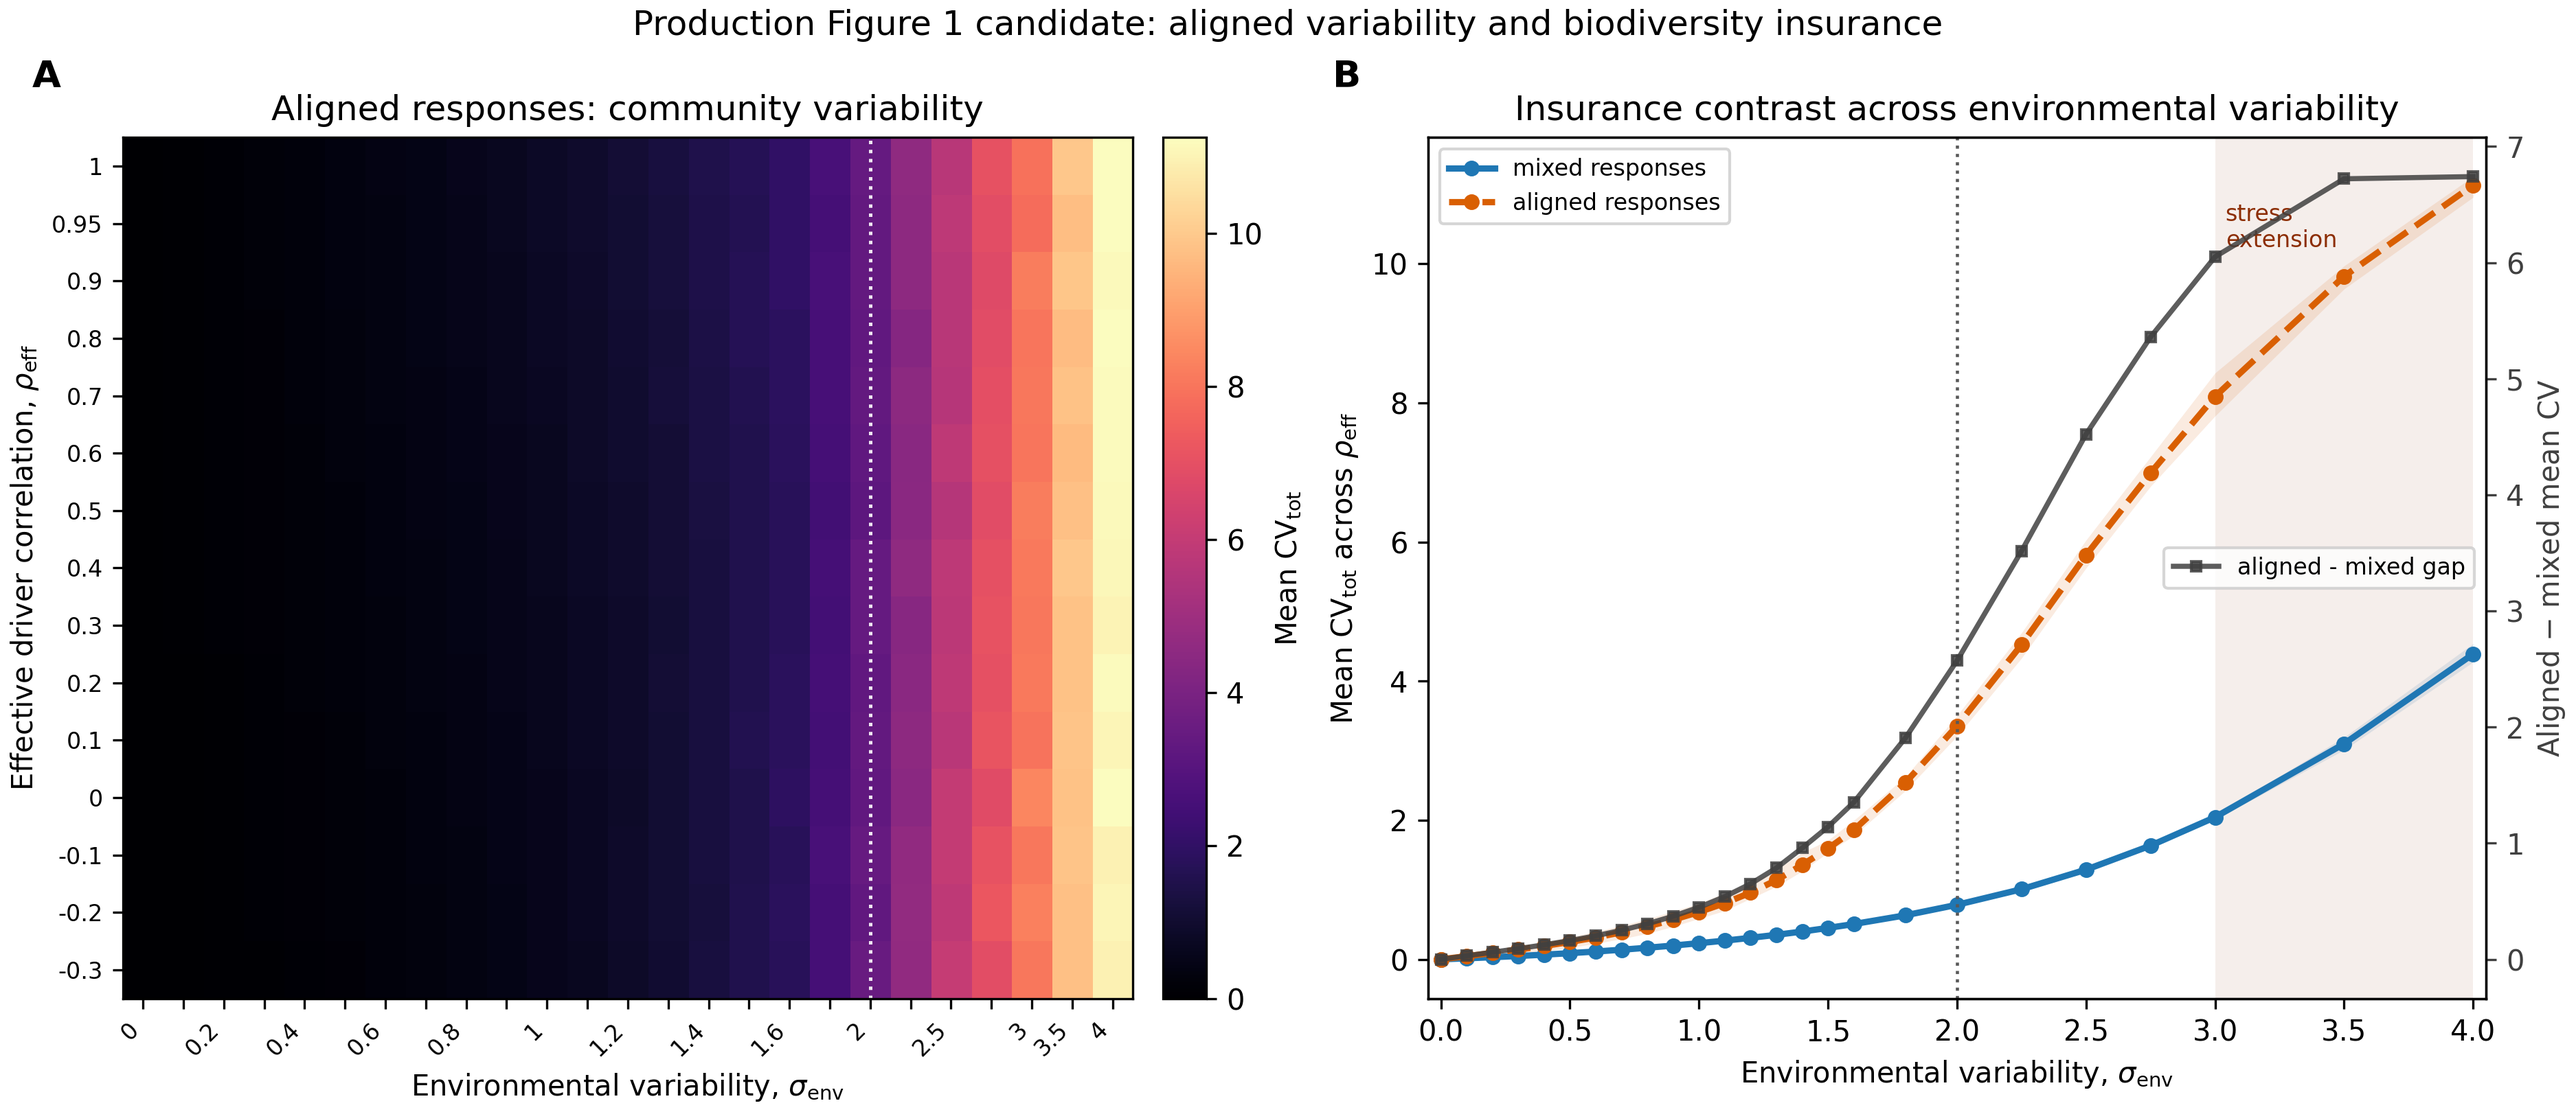
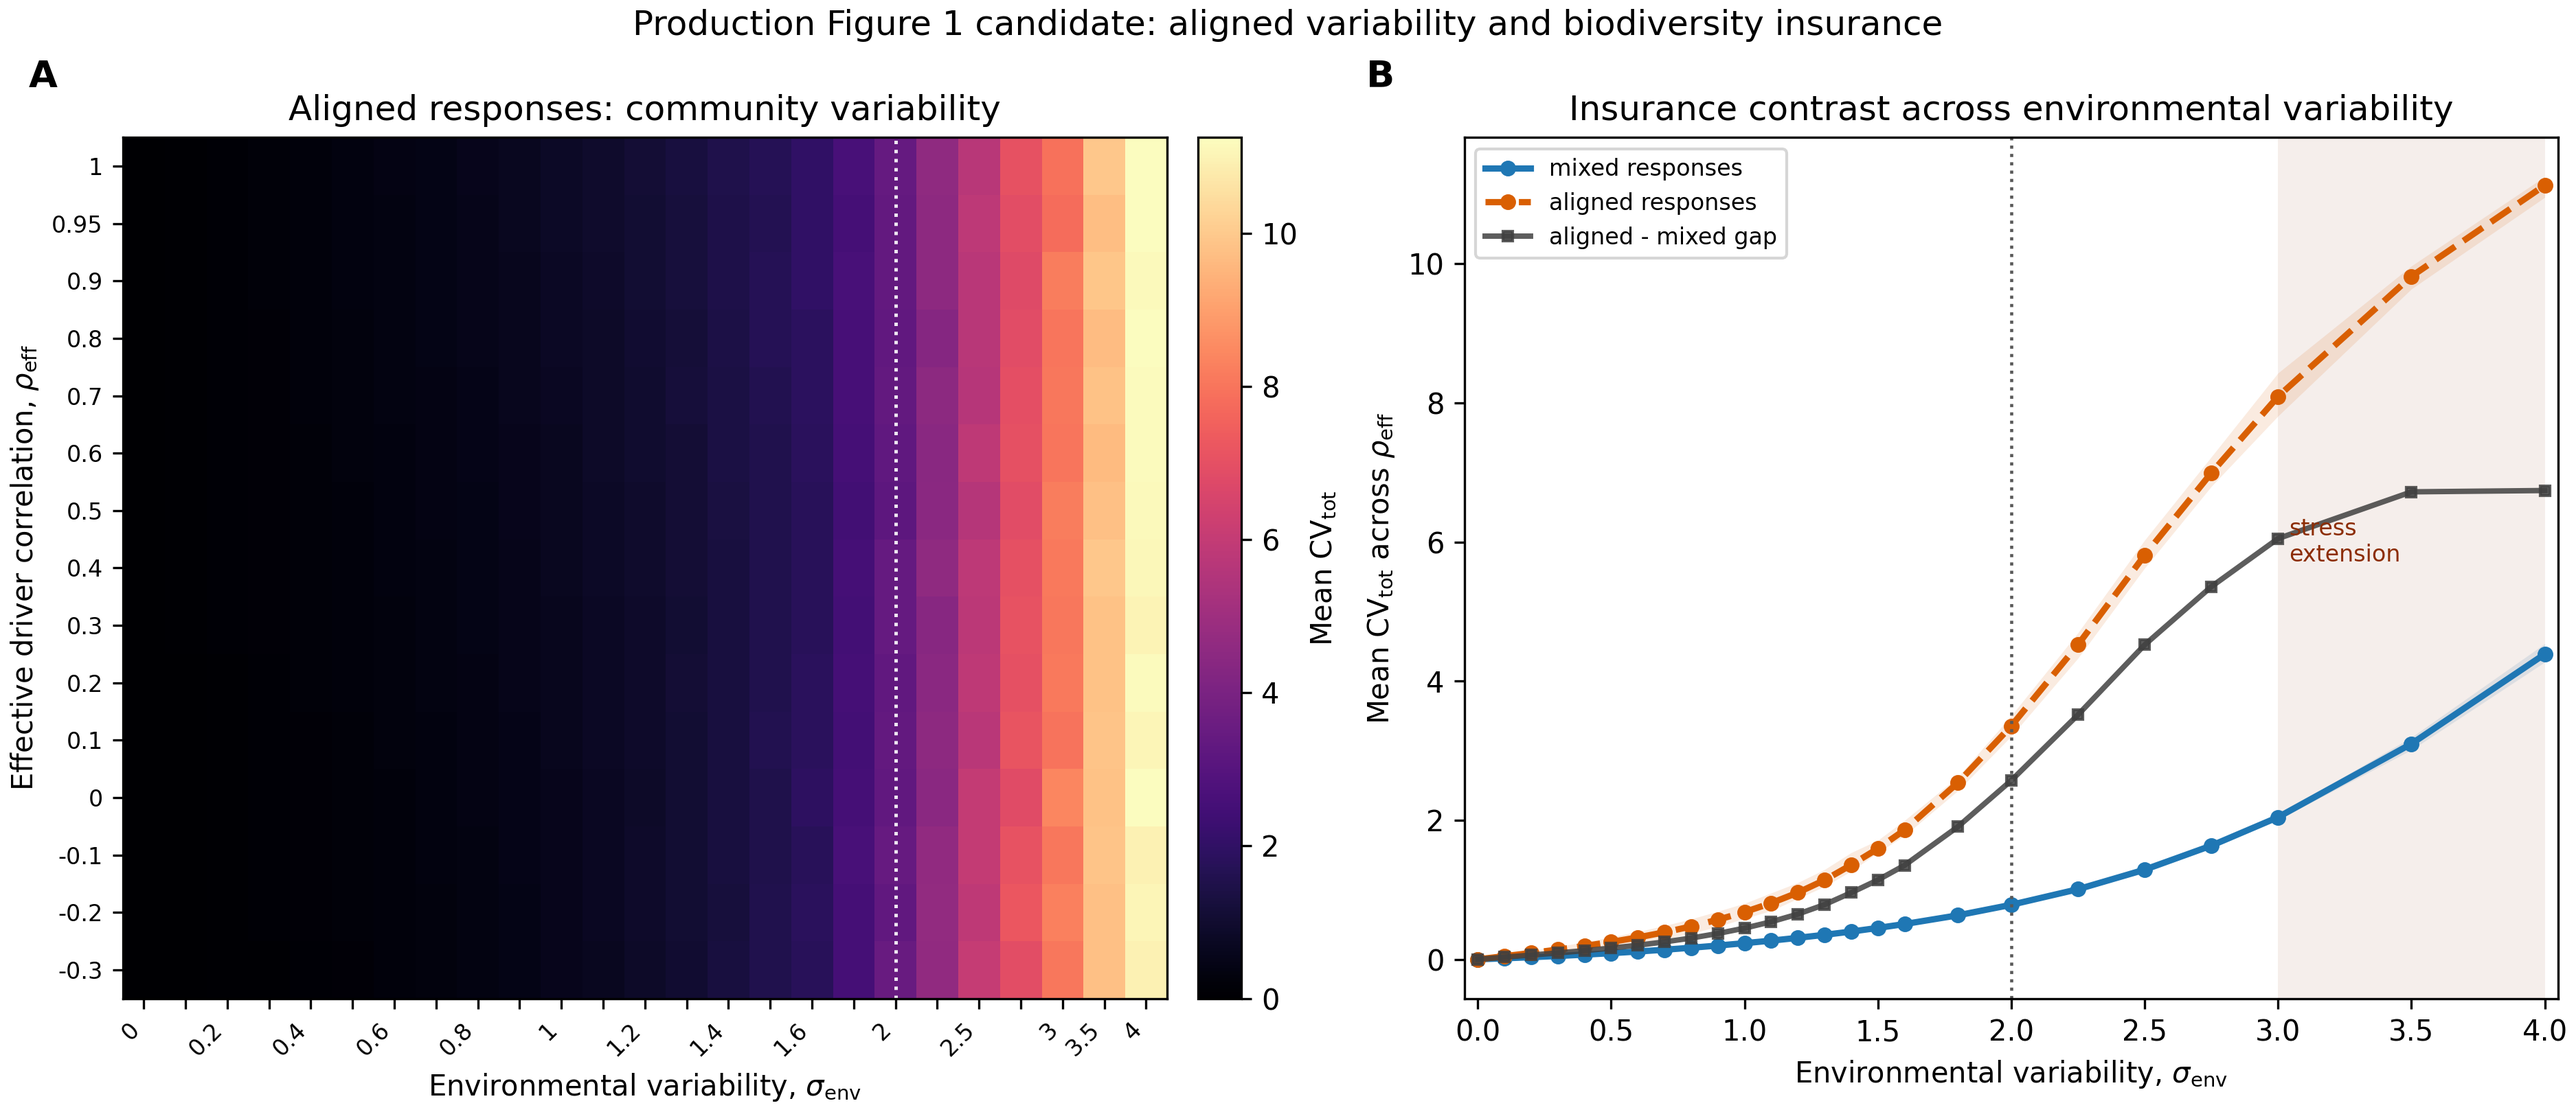
Refine production Figure 1 panel B

diff --git a/src/python/insurance_sim/production_figures.py b/src/python/insurance_sim/production_figures.py
@@ -187,30 +187,27 @@ def make_production_fig1_candidate(
 
     wide_cv = mean_cv.pivot(index="sigma_env", columns="slope_mode", values="cv_mean")
     gap = wide_cv["positive"] - wide_cv["mixed"]
-    ax_gap = ax_gradient.twinx()
-    ax_gap.plot(
+    ax_gradient.plot(
         gap.index.to_numpy(dtype=float),
         gap.to_numpy(dtype=float),
         color="0.25",
-        lw=1.8,
+        lw=1.9,
         marker="s",
         ms=3.5,
         alpha=0.85,
         label="aligned - mixed gap",
     )
-    ax_gap.set_ylabel(r"Aligned $-$ mixed mean CV", color="0.25")
-    ax_gap.tick_params(axis="y", colors="0.25")
 
     ax_gradient.axvline(2.0, color="0.35", lw=1.1, ls=":")
     ax_gradient.axvspan(3.0, max(sigmas), color="#8c2d04", alpha=0.08, lw=0)
     ax_gradient.text(
         3.04,
-        ax_gradient.get_ylim()[1] * 0.92,
+        6.0,
         "stress\nextension",
         color="#8c2d04",
         fontsize=8,
         ha="left",
-        va="top",
+        va="center",
     )
     ax_gradient.set(
         title="Insurance contrast across environmental variability",
@@ -219,7 +216,6 @@ def make_production_fig1_candidate(
     )
     ax_gradient.set_xlim(min(sigmas) - 0.05, max(sigmas) + 0.05)
     ax_gradient.legend(loc="upper left", fontsize=8, frameon=True)
-    ax_gap.legend(loc="center right", fontsize=8, frameon=True)
     _add_panel_label(ax_gradient, "B")
 
     fig.suptitle("Production Figure 1 candidate: aligned variability and biodiversity insurance", fontsize=12)

diff --git a/docs/log/160_fig1_display_revision.md b/docs/log/160_fig1_display_revision.md
@@ -15,9 +15,10 @@ Date: 2026-05-15
 
 - The main candidate now uses two panels:
   - Panel A: aligned positive-slope `CV_tot` surface across `sigma_env` and `rho_eff`.
-  - Panel B: mixed versus aligned mean `CV_tot` across `sigma_env`, averaged over the `rho_eff` grid, with faint bands showing the range across `rho_eff` and a grey aligned-minus-mixed CV gap on a secondary axis.
+  - Panel B: mixed versus aligned mean `CV_tot` across `sigma_env`, averaged over the `rho_eff` grid, with faint bands showing the range across `rho_eff` and a grey aligned-minus-mixed CV gap on the same primary CV axis.
 - The mixed-slope heatmap is deliberately omitted from the main candidate because its message is mostly “buffered across the surface” and the `rho_eff` structure is weak.
 - The high-sigma region is shaded as a stress extension rather than treated as part of the core low-stress response surface.
+- Barry's follow-up readability tweaks were applied: the gap line is part of the top-left legend, the confusing secondary y-axis was removed, and the "stress extension" annotation was moved down to avoid the plotted lines.
 
 ## Outputs
 

diff --git a/docs/q_and_a_interpretation.md b/docs/q_and_a_interpretation.md
@@ -319,6 +319,7 @@ For each question, we add one entry with:
   - Wrote a review-ready candidate to `analysis/reports/fig1_production_candidate.png` and `.pdf`.
   - Wrote the scenario-level summary to `analysis/reports/fig1_production_candidate_summary.csv`.
   - Added focused tests for the production Figure 1 summary/plotting helper.
+  - Follow-up display refinement: moved the aligned-minus-mixed gap onto the primary Panel B y-axis, merged it into the upper-left legend below the mixed/aligned entries, and moved the "stress extension" label down to about y=6.
 - Status: actioned
 - Links: `analysis/plot_production_fig1.py`, `src/python/insurance_sim/production_figures.py`, `analysis/reports/fig1_production_candidate.png`, `analysis/reports/fig1_production_candidate.pdf`
 
